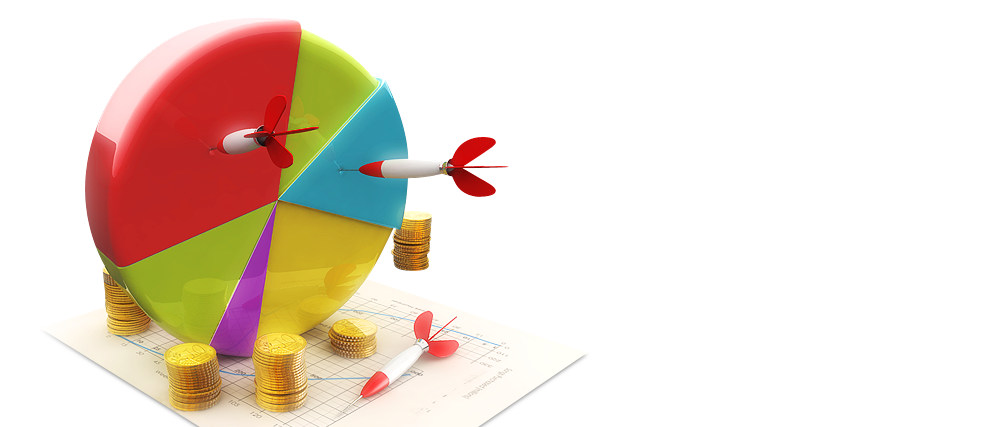
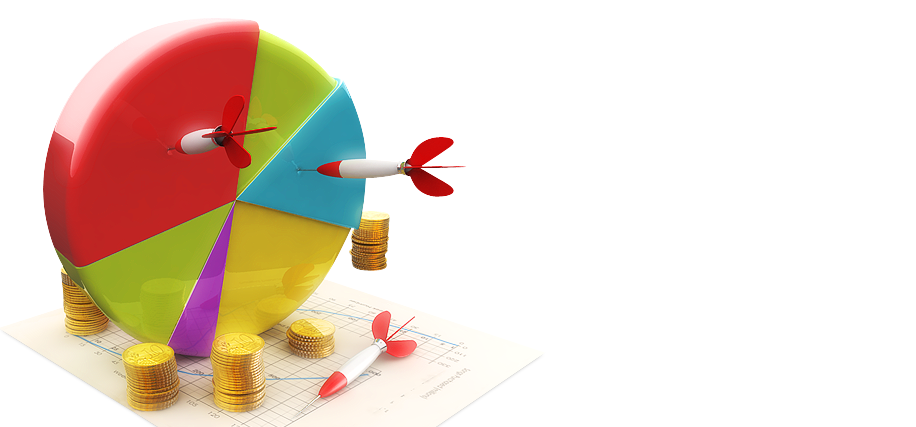
last change

diff --git a/css/style.css b/css/style.css
@@ -67,9 +67,12 @@ nav a:hover {
 	color: #fff;
 }
 
+.slider {
+	background-image: linear-gradient(to bottom, rgba(255,255,255,0.05), rgba(255,255,255,0.80), rgba(255,255,255,0.80), rgba(255,255,255,0.05));
+}
+
 .slider .container {
 	background-image: url(../images/banner.png);
-	width: 1000px;
 	height: 427px;
 	text-align: center;
 }
